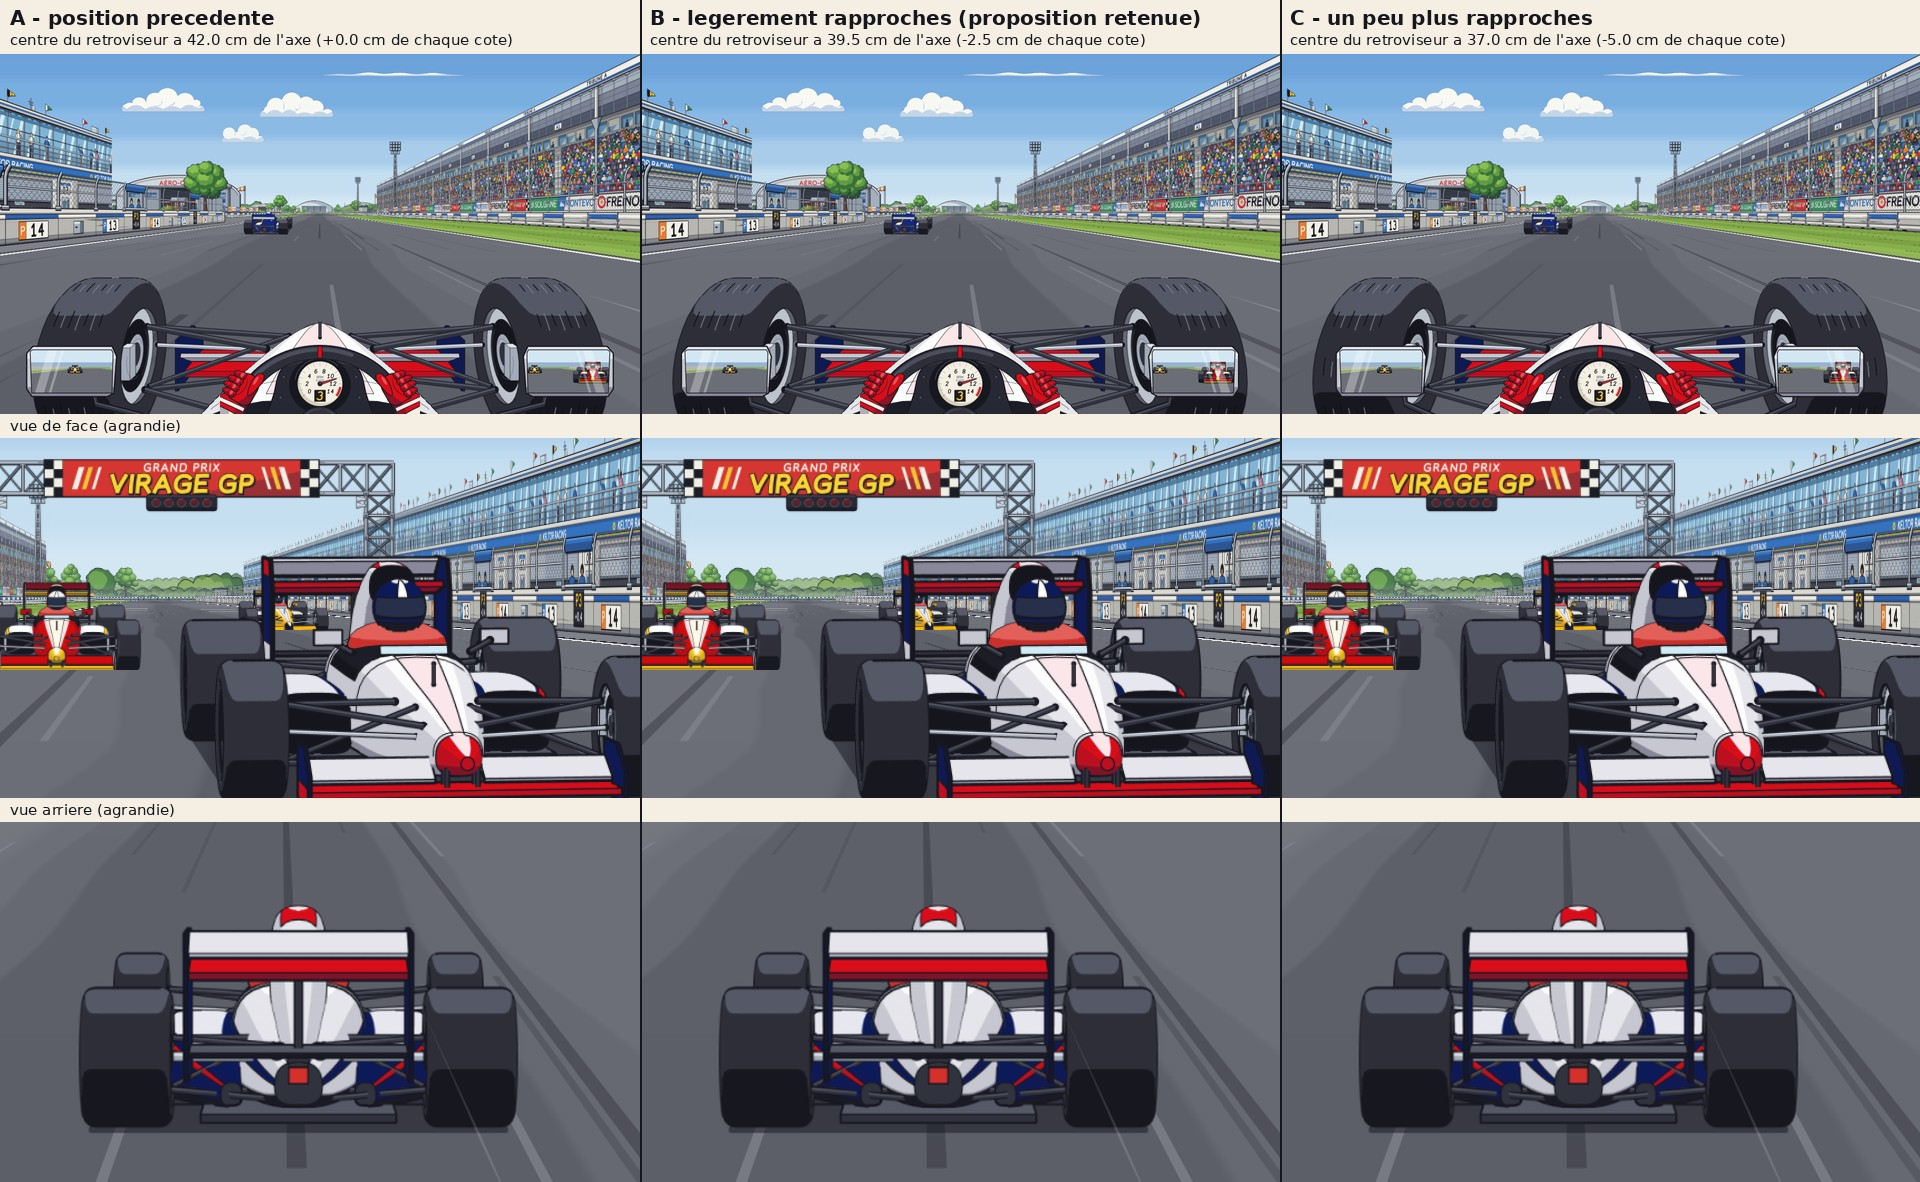
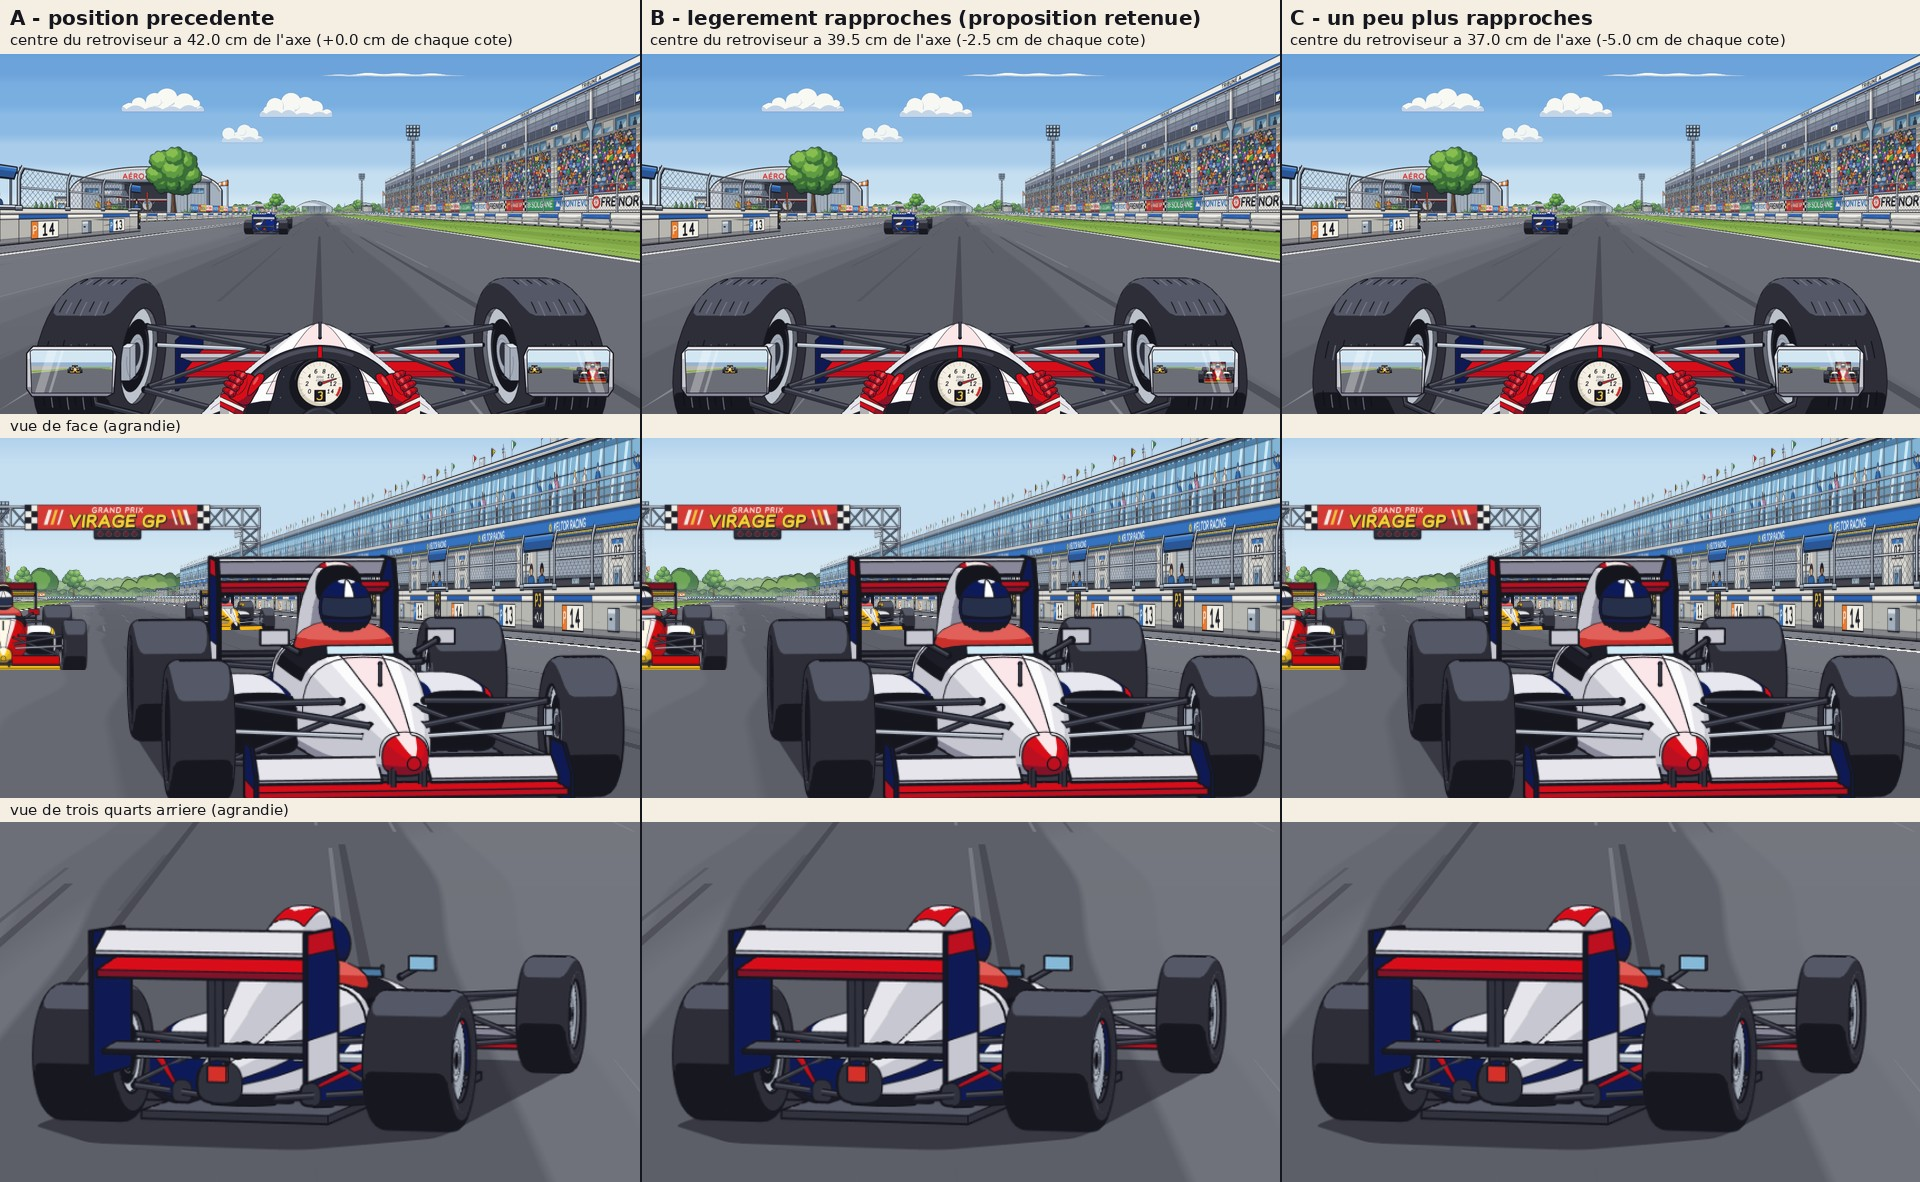
Mirror comparison sheet after the review: the rear view is taken from three quarters, where the mirrors show
Follow-up of the independent review, mirrors part (C-3): seen from straight behind, the rear
wheels hide the mirrors, so the third row of the sheet proved nothing. The car is now drawn
turned by 17 degrees in front of the camera that follows it; the mirror is seen moving toward
the cockpit from A to B to C, as in the cockpit and front views. The script empties the
graphics queue after each picture. No change to the game: the retained position (B) is the
same.

Claude-Session: https://claude.ai/code/session_016sK3yZEKcd2t1y8iwnXEdj

diff --git a/work/scripts/mirror-variants-sheet.py b/work/scripts/mirror-variants-sheet.py
@@ -1,7 +1,7 @@
 #!/usr/bin/env python3
 """Assembles the comparison of the three mirror positions captured by compare-mirror-variants.mjs:
 one column per variant, the cockpit view above, the front view (enlarged on the car) below, the
-chase view last. Also measures, on the pictures, where the mirrors moved between the first and the
+three-quarter rear view last. Also measures, on the pictures, where the mirrors moved between the first and the
 last variant, to check that the two sides moved by the same amount (symmetry)."""
 import json, os, sys
 import numpy as np
@@ -22,7 +22,7 @@ def load(variant, cam):
 
 cell_w, cell_h, band = 640, 360, 54
 front_box = (360, 150, 1000, 510)            # the car seen from the front, enlarged
-chase_box = (380, 428, 900, 720)             # the car seen from behind
+chase_box = (300, 428, 820, 720)             # the car seen from three quarters behind
 sheet = Image.new('RGB', (3 * cell_w, band + 3 * cell_h + 2 * 24), (244, 239, 226))
 d = ImageDraw.Draw(sheet)
 for c, v in enumerate(report['variants']):
@@ -33,7 +33,7 @@ for c, v in enumerate(report['variants']):
     sheet.paste(load(v, 'FRONT').crop(front_box).resize((cell_w, cell_h), Image.LANCZOS), (x, band + cell_h + 24))
     sheet.paste(load(v, 'CHASE').crop(chase_box).resize((cell_w, cell_h), Image.LANCZOS), (x, band + 2 * cell_h + 48))
     if c: d.line((x, 0, x, sheet.height), fill=(22, 22, 31), width=2)
-for r, name in enumerate(('vue cockpit', 'vue de face (agrandie)', 'vue arriere (agrandie)')):
+for r, name in enumerate(('vue cockpit', 'vue de face (agrandie)', 'vue de trois quarts arriere (agrandie)')):
     if r: d.text((10, band + r * (cell_h + 24) - 21), name, fill=(22, 22, 31), font=small)
 sheet.save(os.path.join(out, 'mirror-variants.jpg'), quality=90)
 
